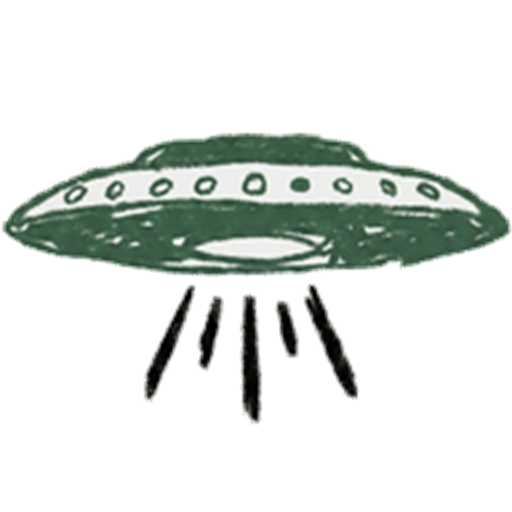
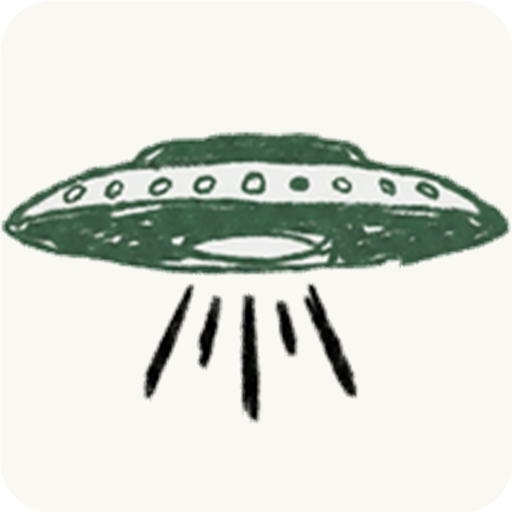
Return completed recordings to workspace in v0.2.2

diff --git a/src/components/workspace/Workspace.tsx b/src/components/workspace/Workspace.tsx
@@ -1,5 +1,7 @@
-import { type ChangeEvent, type CSSProperties, useRef, useState } from "react";
+import { type ChangeEvent, type CSSProperties, useEffect, useRef, useState } from "react";
+import type { RecordingSession } from "../../lib/recordingSession";
 import { AssetWorkspace } from "../assets/AssetWorkspace";
+import { toFileUrl } from "../video-editor/projectPersistence";
 import "./Workspace.css";
 
 type WorkspaceModule = "screen-studio" | "asset";
@@ -65,6 +67,14 @@ const TOOLS: Array<{ id: ToolId; label: string; icon: IconName }> = [
 	{ id: "cmd", label: "Shortcuts", icon: "cmd" },
 ];
 const WEBCAM_SHAPES = ["Circle", "Rounded", "Square", "Rectangle"];
+
+function formatTime(seconds: number) {
+	if (!Number.isFinite(seconds) || seconds < 0) return "0:00";
+	const totalSeconds = Math.floor(seconds);
+	const minutes = Math.floor(totalSeconds / 60);
+	const remainder = totalSeconds % 60;
+	return `${minutes}:${String(remainder).padStart(2, "0")}`;
+}
 
 function Icon({ name, size = 18 }: { name: IconName; size?: number }) {
 	const common = {
@@ -250,7 +260,12 @@ export function Workspace() {
 	const [activeTool, setActiveTool] = useState<ToolId>("select");
 	const [playbackRate, setPlaybackRate] = useState(1);
 	const [openingRecorder, setOpeningRecorder] = useState(false);
+	const [recordingSession, setRecordingSession] = useState<RecordingSession | null>(null);
+	const [isPlaying, setIsPlaying] = useState(false);
+	const [currentTime, setCurrentTime] = useState(0);
+	const [duration, setDuration] = useState(0);
 	const bgInputRef = useRef<HTMLInputElement>(null);
+	const videoRef = useRef<HTMLVideoElement>(null);
 
 	const aspect = ASPECTS.find((entry) => entry.id === aspectId) ?? ASPECTS[0];
 	const background =
@@ -267,6 +282,34 @@ export function Workspace() {
 		"--studio-bg-blur": `${bgBlur}px`,
 		"--studio-aspect": `${aspect.value}`,
 	} as CSSProperties;
+	const videoUrl = recordingSession ? toFileUrl(recordingSession.screenVideoPath) : null;
+
+	useEffect(() => {
+		let cancelled = false;
+		void (async () => {
+			const result = await window.electronAPI.getCurrentRecordingSession();
+			if (result.success && result.session) {
+				if (!cancelled) setRecordingSession(result.session);
+				return;
+			}
+			const pathResult = await window.electronAPI.getCurrentVideoPath();
+			if (!cancelled && pathResult.success && pathResult.path) {
+				setRecordingSession({
+					screenVideoPath: pathResult.path,
+					createdAt: Date.now(),
+				});
+			}
+		})();
+		return () => {
+			cancelled = true;
+		};
+	}, []);
+
+	useEffect(() => {
+		if (videoRef.current) {
+			videoRef.current.playbackRate = playbackRate;
+		}
+	}, [playbackRate]);
 
 	const openRecorder = async () => {
 		setOpeningRecorder(true);
@@ -275,6 +318,22 @@ export function Workspace() {
 		} finally {
 			setOpeningRecorder(false);
 		}
+	};
+
+	const togglePlayback = async () => {
+		const video = videoRef.current;
+		if (!videoUrl || !video) return;
+		if (video.paused) {
+			await video.play();
+		} else {
+			video.pause();
+		}
+	};
+
+	const seekBy = (seconds: number) => {
+		const video = videoRef.current;
+		if (!videoUrl || !video) return;
+		video.currentTime = Math.max(0, Math.min(video.duration || 0, video.currentTime + seconds));
 	};
 
 	const uploadBackground = (event: ChangeEvent<HTMLInputElement>) => {
@@ -376,6 +435,18 @@ export function Workspace() {
 											Press <em>Record</em> above to capture a screen, window, or browser tab.
 										</small>
 									</div>
+									{videoUrl && (
+										<video
+											ref={videoRef}
+											className="se-recording-video"
+											src={videoUrl}
+											onLoadedMetadata={(event) => setDuration(event.currentTarget.duration)}
+											onTimeUpdate={(event) => setCurrentTime(event.currentTarget.currentTime)}
+											onPlay={() => setIsPlaying(true)}
+											onPause={() => setIsPlaying(false)}
+											onEnded={() => setIsPlaying(false)}
+										/>
+									)}
 									{showCamera && (
 										<div className={`se-webcam-preview shape-${webcamShape.toLowerCase()}`} />
 									)}
@@ -583,16 +654,36 @@ export function Workspace() {
 								</button>
 							</div>
 							<div className="se-playback">
-								<button className="se-trans-btn" type="button" disabled>
+								<button
+									className="se-trans-btn"
+									type="button"
+									disabled={!videoUrl}
+									onClick={() => seekBy(-5)}
+									aria-label="Rewind 5 seconds"
+								>
 									<Icon name="rewind" />
 								</button>
-								<button className="se-play-btn" type="button" disabled>
+								<button
+									className="se-play-btn"
+									type="button"
+									disabled={!videoUrl}
+									onClick={() => void togglePlayback()}
+									aria-label={isPlaying ? "Pause recording" : "Play recording"}
+								>
 									<Icon name="play" />
 								</button>
-								<button className="se-trans-btn" type="button" disabled>
+								<button
+									className="se-trans-btn"
+									type="button"
+									disabled={!videoUrl}
+									onClick={() => seekBy(5)}
+									aria-label="Forward 5 seconds"
+								>
 									<Icon name="fwd" />
 								</button>
-								<span className="se-time">0:00 / 0:00</span>
+								<span className="se-time">
+									{formatTime(currentTime)} / {formatTime(duration)}
+								</span>
 							</div>
 							<div className="se-transport-right">
 								<button className="se-trans-btn ghost" type="button" disabled>
@@ -628,7 +719,8 @@ export function Workspace() {
 									))}
 								</div>
 								<span className="se-track-label">
-									<Icon name="link" size={12} /> Clip - 0:00 - 1.00x
+									<Icon name="link" size={12} /> Clip - {formatTime(duration)} -{" "}
+									{playbackRate.toFixed(2)}x
 								</span>
 							</div>
 							<div className="se-track zoom">

diff --git a/src/hooks/useScreenRecorder.ts b/src/hooks/useScreenRecorder.ts
@@ -406,7 +406,7 @@ export function useScreenRecorder(): UseScreenRecorderReturn {
 						await window.electronAPI.setCurrentVideoPath(result.path);
 					}
 
-					await window.electronAPI.switchToEditor();
+					await window.electronAPI.openCompletedRecording();
 				} catch (error) {
 					console.error("Error saving recording:", error);
 				} finally {
@@ -459,7 +459,7 @@ export function useScreenRecorder(): UseScreenRecorderReturn {
 				await window.electronAPI.setCurrentVideoPath(result.path);
 			}
 
-			await window.electronAPI.switchToEditor();
+			await window.electronAPI.openCompletedRecording();
 			return true;
 		} catch (error) {
 			console.error("Error saving native Windows recording:", error);
@@ -557,7 +557,7 @@ export function useScreenRecorder(): UseScreenRecorderReturn {
 					await window.electronAPI.setCurrentVideoPath(result.path);
 				}
 
-				await window.electronAPI.switchToEditor();
+				await window.electronAPI.openCompletedRecording();
 				return true;
 			} catch (error) {
 				console.error("Error saving native macOS recording:", error);

diff --git a/electron/ipc/handlers.ts b/electron/ipc/handlers.ts
@@ -1218,7 +1218,7 @@ async function loadRecordedSessionForVideoPath(
 }
 
 export function registerIpcHandlers(
-	createEditorWindow: () => void,
+	openCompletedRecordingWindow: () => void,
 	createSourceSelectorWindow: () => BrowserWindow,
 	createCountdownOverlayWindow: () => BrowserWindow,
 	getMainWindow: () => BrowserWindow | null,
@@ -1387,12 +1387,12 @@ export function registerIpcHandlers(
 		return { opened: true };
 	});
 
-	ipcMain.handle("switch-to-editor", () => {
+	ipcMain.handle("open-completed-recording", () => {
 		const mainWin = getMainWindow();
 		if (mainWin) {
 			mainWin.close();
 		}
-		createEditorWindow();
+		openCompletedRecordingWindow();
 	});
 
 	ipcMain.handle("switch-to-hud", () => {

diff --git a/electron/main.ts b/electron/main.ts
@@ -440,6 +440,15 @@ function createEditorWindowWrapper() {
 	});
 }
 
+function createCompletedRecordingWorkspaceWindow() {
+	if (mainWindow && !mainWindow.isDestroyed()) {
+		isForceClosing = true;
+		mainWindow.close();
+		isForceClosing = false;
+	}
+	mainWindow = createWorkspaceWindow();
+}
+
 function createSourceSelectorWindowWrapper() {
 	sourceSelectorWindow = createSourceSelectorWindow();
 	sourceSelectorWindow.on("closed", () => {
@@ -583,7 +592,7 @@ app.whenReady().then(async () => {
 	});
 
 	registerIpcHandlers(
-		createEditorWindowWrapper,
+		createCompletedRecordingWorkspaceWindow,
 		createSourceSelectorWindowWrapper,
 		createCountdownOverlayWindowWrapper,
 		() => mainWindow,

diff --git a/src/components/launch/LaunchWindow.tsx b/src/components/launch/LaunchWindow.tsx
@@ -347,14 +347,14 @@ export function LaunchWindow() {
 				console.error("Failed to set current video path:", setVideoPathResult);
 				return;
 			}
-			await window.electronAPI.switchToEditor();
+			await window.electronAPI.openCompletedRecording();
 		}
 	};
 
 	const openProjectFile = async () => {
 		const result = await nativeBridgeClient.project.loadProjectFile();
 		if (result.canceled || !result.success) return;
-		await window.electronAPI.switchToEditor();
+		await window.electronAPI.openCompletedRecording();
 	};
 
 	const sendHudOverlayHide = () => {

diff --git a/electron/electron-env.d.ts b/electron/electron-env.d.ts
@@ -28,7 +28,7 @@ interface Window {
 			request: import("../src/native/contracts").NativeBridgeRequest,
 		) => Promise<import("../src/native/contracts").NativeBridgeResponse<TData>>;
 		getSources: (opts: Electron.SourcesOptions) => Promise<ProcessedDesktopSource[]>;
-		switchToEditor: () => Promise<void>;
+		openCompletedRecording: () => Promise<void>;
 		switchToHud: () => Promise<void>;
 		openScreenStudio: () => Promise<{ success: boolean }>;
 		consumeAuthCallbackUrl: () => Promise<string | null>;

diff --git a/electron/preload.ts b/electron/preload.ts
@@ -31,8 +31,8 @@ contextBridge.exposeInMainWorld("electronAPI", {
 	getSources: async (opts: Electron.SourcesOptions) => {
 		return await ipcRenderer.invoke("get-sources", opts);
 	},
-	switchToEditor: () => {
-		return ipcRenderer.invoke("switch-to-editor");
+	openCompletedRecording: () => {
+		return ipcRenderer.invoke("open-completed-recording");
 	},
 	switchToHud: () => {
 		return ipcRenderer.invoke("switch-to-hud");

diff --git a/electron/windows.ts b/electron/windows.ts
@@ -52,6 +52,8 @@ export function createWorkspaceWindow(): BrowserWindow {
 			additionalArguments: [ASSET_BASE_URL_ARG],
 			nodeIntegration: false,
 			contextIsolation: true,
+			// The Vite dev origin previews persisted local recordings; packaged windows load from file.
+			webSecurity: !VITE_DEV_SERVER_URL,
 			backgroundThrottling: false,
 		},
 	});

diff --git a/src/components/workspace/Workspace.css b/src/components/workspace/Workspace.css
@@ -322,8 +322,19 @@
 	font-weight: 600;
 }
 
+.se-recording-video {
+	position: absolute;
+	inset: 0;
+	z-index: 1;
+	width: 100%;
+	height: 100%;
+	background: #050608;
+	object-fit: contain;
+}
+
 .se-webcam-preview {
 	position: absolute;
+	z-index: 2;
 	bottom: 18px;
 	left: 18px;
 	width: 94px;

diff --git a/README.md b/README.md
@@ -8,7 +8,7 @@ The app is built with Electron, React, Vite, and electron-builder. Its recording
 
 - Record a screen, window, or region.
 - Capture cursor movement, clicks, system audio, microphone, and webcam.
-- Edit recordings with zoom, backgrounds, annotations, crop, speed, and blur tools.
+- Continue the Screen Studio migration from recording preview into zoom, crop, speed, and export tools.
 - Export MP4 or GIF.
 
 ## Download And Install
@@ -17,12 +17,12 @@ The app is built with Electron, React, Vite, and electron-builder. Its recording
 
 The current Windows release is available from GitHub:
 
-- [Download Brand Studio v0.2.1 for Windows](https://github.com/RaeShe666/brand-studio/releases/download/v0.2.1/Brand.Studio-Windows-0.2.1-Setup.exe)
+- [Download Brand Studio v0.2.2 for Windows](https://github.com/RaeShe666/brand-studio/releases/download/v0.2.2/Brand.Studio-Windows-0.2.2-Setup.exe)
 - [View all releases](https://github.com/RaeShe666/brand-studio/releases)
 
 To install:
 
-1. Download `Brand.Studio-Windows-0.2.1-Setup.exe`.
+1. Download `Brand.Studio-Windows-0.2.2-Setup.exe`.
 2. Open the downloaded installer.
 3. Choose an installation folder and complete the setup.
 4. Launch Brand Studio from the Start menu or its shortcut.
@@ -100,8 +100,8 @@ GitHub Actions publishes the unsigned Windows setup installer when a version
 tag is pushed:
 
 ```bash
-git tag v0.2.1
-git push origin v0.2.1
+git tag v0.2.2
+git push origin v0.2.2
 ```
 
 The workflow uploads only `Brand Studio-Windows-<version>-Setup.exe` to the
